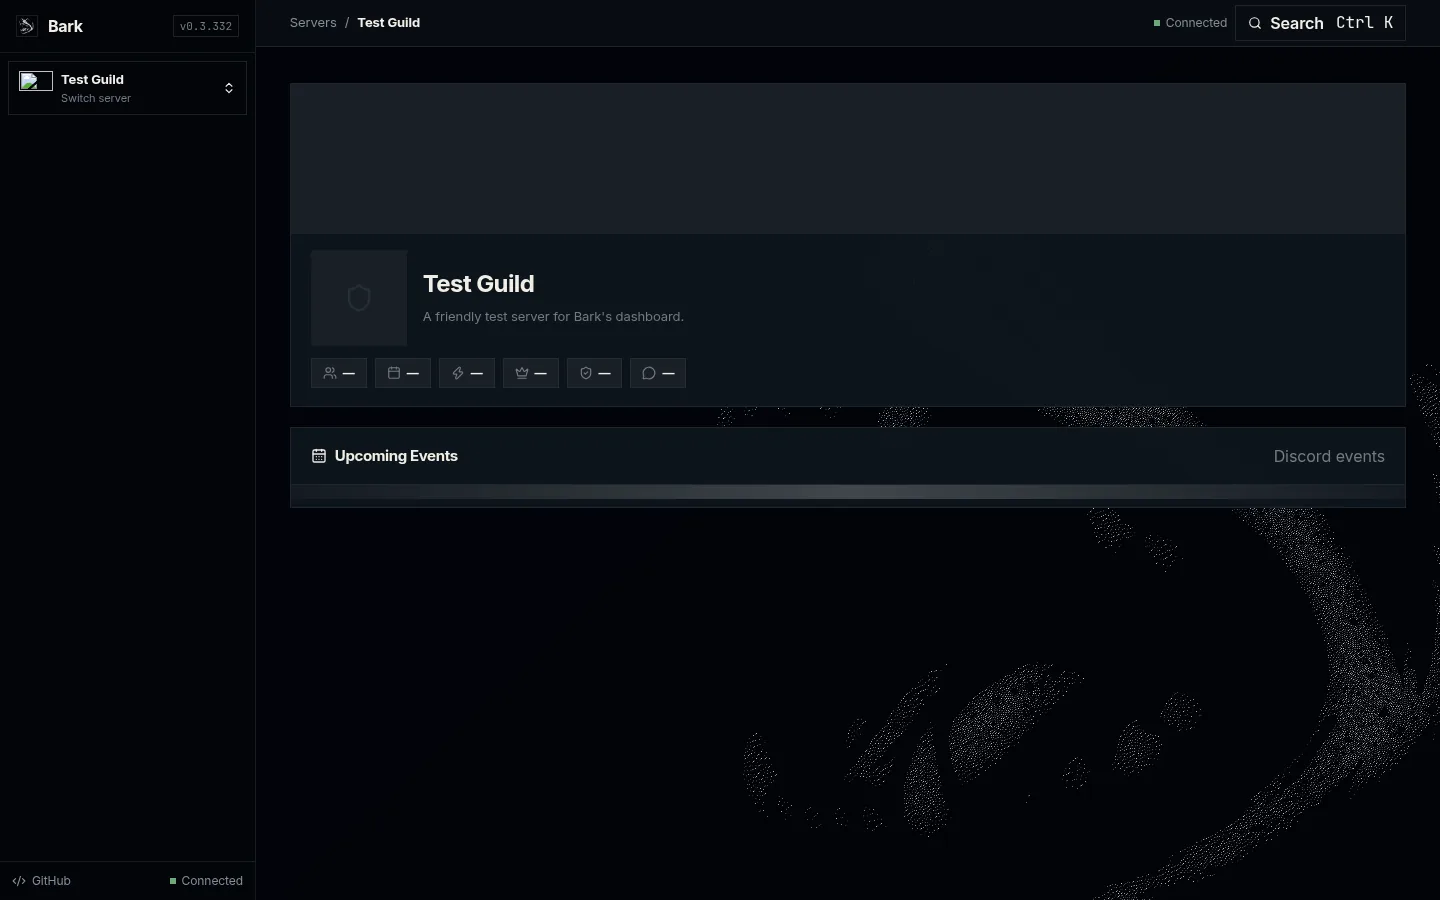
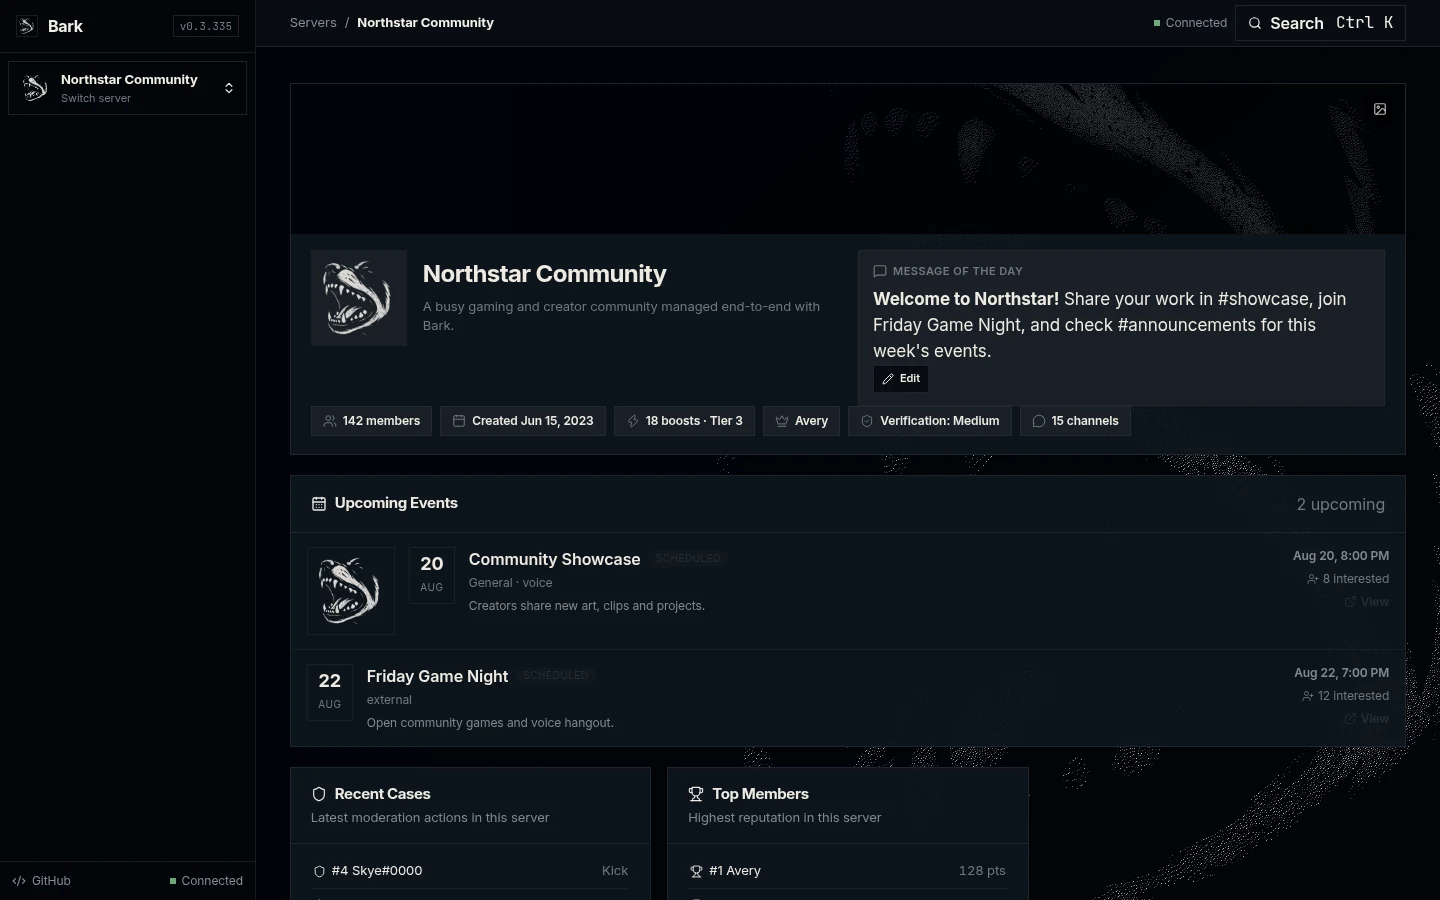
content: replace carousel with richly populated Bark captures

diff --git a/index.html b/index.html
@@ -77,23 +77,23 @@
         <div class="hero-deck">
           <div class="hero-deck-glow" aria-hidden="true"></div>
           <figure class="hero-page is-active" data-hero-page="overview">
-            <img src="assets/screenshots/01-overview.webp" alt="Bark server overview with activity, member counts and quick actions" loading="eager" fetchpriority="high" width="1440" height="900">
+            <img src="assets/screenshots/01-overview.webp?v=2" alt="Bark server overview with banner, icon, activity, member counts and scheduled events" loading="eager" fetchpriority="high" width="1440" height="900">
             <figcaption><strong>Overview</strong><span>Server health, activity and quick actions</span></figcaption>
           </figure>
           <figure class="hero-page" data-hero-page="members" hidden>
-            <img src="assets/screenshots/members.webp" alt="Bark searchable member directory" loading="lazy" width="1440" height="900">
+            <img src="assets/screenshots/members.webp?v=2" alt="Bark searchable member directory with avatars, roles, filters and moderation actions" loading="lazy" width="1440" height="900">
             <figcaption><strong>Members</strong><span>Search, inspect and manage your community</span></figcaption>
           </figure>
           <figure class="hero-page" data-hero-page="moderation" hidden>
-            <img src="assets/screenshots/moderation.webp" alt="Bark moderation workspace" loading="lazy" width="1440" height="900">
+            <img src="assets/screenshots/moderation.webp?v=2" alt="Bark moderation workspace showing populated cases and enforcement history" loading="lazy" width="1440" height="900">
             <figcaption><strong>Moderation</strong><span>Cases, warnings, rulesets and voice actions</span></figcaption>
           </figure>
           <figure class="hero-page" data-hero-page="stats" hidden>
-            <img src="assets/screenshots/stats.webp" alt="Bark statistics dashboard with activity charts" loading="lazy" width="1440" height="900">
+            <img src="assets/screenshots/stats.webp?v=2" alt="Bark statistics dashboard with populated activity, growth and channel charts" loading="lazy" width="1440" height="900">
             <figcaption><strong>Statistics</strong><span>Growth, engagement and reputation trends</span></figcaption>
           </figure>
           <figure class="hero-page" data-hero-page="modules" hidden>
-            <img src="assets/screenshots/modules.webp" alt="Bark modules page with per-server controls" loading="lazy" width="1440" height="900">
+            <img src="assets/screenshots/modules.webp?v=2" alt="Bark modules page showing enabled core modules, commands and configuration states" loading="lazy" width="1440" height="900">
             <figcaption><strong>Modules</strong><span>Enable and configure features per server</span></figcaption>
           </figure>
         </div>

diff --git a/docs/redesign-2026-08-20.md b/docs/redesign-2026-08-20.md
@@ -197,5 +197,10 @@ count is 783 (collected from the repo).
 - **Module imagery** — all nine built-in modules now use a distinct inline line icon
   derived from the module's function (shield, trophy, roles, announcement, voice,
   log, welcome, speech and help).
+- **Rich product screenshots** — rebuilt the demo guild as Northstar Community with
+  a real first-party icon and banner, formatted MOTD, server metadata, scheduled
+  events, activity, dashboard widgets, named members and roles, populated moderation
+  cases, historical statistics and enabled module states. All five carousel captures
+  come from Bark's real dashboard at 1440×900 rather than fabricated mockups.
 - **OG share image** — shipped as a 1200×630 branded product card at
   `assets/bark-og.png`; OpenGraph and Twitter now use the large-image card.
